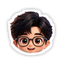
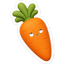
커서 이미지를 납득이 얼굴에서 당근 스티커로 교체

diff --git a/index.html b/index.html
@@ -2,7 +2,7 @@
 <title>사부작 𝕏 LAB · Sabujak 𝕏 Lab</title>
 <meta name="description" content="농산물 사 오다 시작한 사부작의 𝕏 실험실. 그록봇으로 만든 보드·툴킷·템플릿 · Sabujak’s little 𝕏 lab built with Grok Bot">
 <meta property="og:title" content="사부작 𝕏 LAB"><meta property="og:description" content="일상·크립토·그록봇 실험 기록 · 보드 · 템플릿"><meta property="og:image" content="assets/img/hero-bg.webp"><meta name="theme-color" content="#070a1a">
-<link rel="icon" href="assets/img/avatar.webp"><link rel="stylesheet" href="assets/style.css?v=20261102t"></head><body>
+<link rel="icon" href="assets/img/avatar.webp"><link rel="stylesheet" href="assets/style.css?v=20261102u"></head><body>
 <header class="nav"><a class="brand" href="#top"><img src="assets/img/avatar.webp" alt="" width="32" height="32"><span data-l="ko">사부작 𝕏 LAB</span><span data-l="en">Sabujak 𝕏 Lab</span></a>
 <a class="btn sm" href="https://x.com/tei0002" target="_blank" rel="noopener"><span data-l="ko">팔로우</span><span data-l="en">Follow</span></a></header>
 <main id="top">
@@ -20,4 +20,4 @@
 <div class="nums"><div class="num"><span class="k"><span data-l="ko">오늘 방문자 </span><span class="en">Today</span></span><b id="vtoday">–</b></div><div class="num"><span class="k"><span data-l="ko">총 방문자 </span><span class="en">Total</span></span><b id="vtotal">–</b></div></div></div></section>
 </main><footer>© 2026 <span data-l="ko">사부작 𝕏 LAB</span><span data-l="en">Sabujak 𝕏 Lab</span> · Made with Grok Bot · 오늘도 사부작🌱</footer>
 <div id="lb" hidden><img alt=""></div>
-<script src="assets/i18n.js?v=20261102t"></script><script src="assets/app.js?v=20261102t"></script><script src="assets/stats.js?v=20261102t" defer></script><script src="assets/metrics.js?v=20261102t" defer></script><script src="assets/hero.js?v=20261102t" defer></script></body></html>
+<script src="assets/i18n.js?v=20261102u"></script><script src="assets/app.js?v=20261102u"></script><script src="assets/stats.js?v=20261102u" defer></script><script src="assets/metrics.js?v=20261102u" defer></script><script src="assets/hero.js?v=20261102u" defer></script></body></html>

diff --git a/toolkit2/index.html b/toolkit2/index.html
@@ -2,7 +2,7 @@
 <title>사부작 글창고 · 내 𝕏 글 보드 · 사부작 𝕏 LAB</title>
 <meta name="description" content="1년 치 내 𝕏 글을 한 화면에서 검색하고 정렬해, 잘된 글의 패턴을 찾는 보드 (TOOLKIT #2)">
 <meta property="og:title" content="사부작 글창고 · 내 𝕏 글 보드 · 사부작 𝕏 LAB"><meta property="og:image" content="assets/img/t_lib.webp"><meta name="theme-color" content="#070a1a">
-<link rel="icon" href="assets/img/avatar.webp"><link rel="stylesheet" href="assets/style.css?v=20261102t">
+<link rel="icon" href="assets/img/avatar.webp"><link rel="stylesheet" href="assets/style.css?v=20261102u">
 <style>
 .p30{max-width:760px;margin:0 auto;padding:0 16px}.back{display:inline-block;margin:18px 0 6px;opacity:.85}
 .p30 h1{font-size:clamp(26px,7vw,44px);margin:.2em 0;white-space:normal;overflow-wrap:anywhere}.kp{list-style:none;padding:0;display:grid;gap:10px}
@@ -91,7 +91,7 @@
 <p class="lead" style="margin-top:16px"><span data-l="ko">만들어 보시면 인용으로 보여 주세요.<br>여러분 글 중 노출 1위는 어떤 주제였나요?</span><span data-l="en">If you build one, show it in a quote post.<br>Which topic was your #1 post by impressions?</span></p></section>
 <a class="back" href="./">← <span data-l="ko">LAB으로 돌아가기</span><span data-l="en">Back to the LAB</span></a>
 </main><footer>© 2026 <span data-l="ko">사부작 𝕏 LAB</span><span data-l="en">Sabujak 𝕏 Lab</span> · Made with Grok Bot · 오늘도 사부작🌱</footer>
-<script src="assets/i18n.js?v=20261102t"></script>
+<script src="assets/i18n.js?v=20261102u"></script>
 <script>
 const doCopy=async ev=>{const bt=ev.currentTarget,t=document.getElementById('ptxt').textContent,en=document.documentElement.lang==='en';let ok=false;
 try{await navigator.clipboard.writeText(t);ok=true}catch(e){const a=document.createElement('textarea');a.value=t;a.style.position='fixed';a.style.opacity='0';document.body.appendChild(a);a.select();try{ok=document.execCommand('copy')}catch(_){}a.remove()}

diff --git a/toolkit1/index.html b/toolkit1/index.html
@@ -2,7 +2,7 @@
 <title>인팔 300 서클 · 사부작 𝕏 LAB</title>
 <meta name="description" content="맞팔 인증 친구 최대 300명을, 최근에 답글을 못 단 순서로 정렬해 주는 매일 보드 (TOOLKIT #1)">
 <meta property="og:title" content="인팔 300 서클 · 사부작 𝕏 LAB"><meta property="og:image" content="assets/img/t_inpal.webp"><meta name="theme-color" content="#070a1a">
-<link rel="icon" href="assets/img/avatar.webp"><link rel="stylesheet" href="assets/style.css?v=20261102t">
+<link rel="icon" href="assets/img/avatar.webp"><link rel="stylesheet" href="assets/style.css?v=20261102u">
 <style>
 .p30{max-width:760px;margin:0 auto;padding:0 16px}.back{display:inline-block;margin:18px 0 6px;opacity:.85}
 .p30 h1{font-size:clamp(26px,7vw,44px);margin:.2em 0;white-space:normal;overflow-wrap:anywhere}.kp{list-style:none;padding:0;display:grid;gap:10px}
@@ -96,7 +96,7 @@
 <p class="lead" style="margin-top:16px"><span data-l="ko">여러분은 하루에 몇 명의 엑친을 먼저 찾아가세요?</span><span data-l="en">How many 𝕏 friends do you reach out to first each day?</span></p></section>
 <a class="back" href="./">← <span data-l="ko">LAB으로 돌아가기</span><span data-l="en">Back to the LAB</span></a>
 </main><footer>© 2026 <span data-l="ko">사부작 𝕏 LAB</span><span data-l="en">Sabujak 𝕏 Lab</span> · Made with Grok Bot · 오늘도 사부작🌱</footer>
-<script src="assets/i18n.js?v=20261102t"></script>
+<script src="assets/i18n.js?v=20261102u"></script>
 <script>
 const doCopy=async ev=>{const bt=ev.currentTarget,t=document.getElementById('ptxt').textContent,en=document.documentElement.lang==='en';let ok=false;
 try{await navigator.clipboard.writeText(t);ok=true}catch(e){const a=document.createElement('textarea');a.value=t;a.style.position='fixed';a.style.opacity='0';document.body.appendChild(a);a.select();try{ok=document.execCommand('copy')}catch(_){}a.remove()}

diff --git a/plan30/index.html b/plan30/index.html
@@ -2,7 +2,7 @@
 <title>사부작 30일 노트 · 사부작 𝕏 LAB</title>
 <meta name="description" content="사부작 𝕏 30일 실험 노트 · 일상·크립토·그록봇 글 계획">
 <meta property="og:title" content="사부작 30일 노트 · 사부작 𝕏 LAB"><meta property="og:image" content="assets/img/t_decl.webp"><meta name="theme-color" content="#070a1a">
-<link rel="icon" href="assets/img/avatar.webp"><link rel="stylesheet" href="assets/style.css?v=20261102t">
+<link rel="icon" href="assets/img/avatar.webp"><link rel="stylesheet" href="assets/style.css?v=20261102u">
 <style>
 .p30{max-width:760px;margin:0 auto;padding:0 16px}.back{display:inline-block;margin:18px 0 6px;opacity:.85}
 .p30 h1{font-size:clamp(26px,7vw,44px);margin:.2em 0;white-space:normal;overflow-wrap:anywhere}.kp{list-style:none;padding:0;display:grid;gap:10px}
@@ -31,4 +31,4 @@
 <section class="sec"><div class="sh"><h2><span data-l="ko">30일 게시글 리스트</span><span data-l="en">30-day post list</span></h2><span class="n" id="cnt"></span></div><p class="upd" id="upd"></p><div id="list"><p>Loading…</p></div></section>
 <section class="follow"><img src="assets/img/avatar.webp" alt="" width="96" height="96" loading="lazy"><h2><span data-l="ko">어떻게 됐는지는 𝕏에서 사부작 공개</span><span data-l="en">Updates go up on 𝕏</span></h2><a class="btn" href="https://x.com/tei0002" target="_blank" rel="noopener"><span data-l="ko">@tei0002 팔로우하기</span><span data-l="en">Follow @tei0002</span></a></section>
 </main><footer>© 2026 <span data-l="ko">사부작 𝕏 LAB</span><span data-l="en">Sabujak 𝕏 Lab</span> · Made with Grok Bot · 오늘도 사부작🌱</footer>
-<script src="assets/i18n.js?v=20261102t"></script><script src="assets/plan30.js?v=20261102t"></script></body></html>
+<script src="assets/i18n.js?v=20261102u"></script><script src="assets/plan30.js?v=20261102u"></script></body></html>

diff --git a/assets/style.css b/assets/style.css
@@ -59,7 +59,7 @@ h1{word-break:keep-all;overflow-wrap:normal;white-space:nowrap;font-size:clamp(3
 @media(min-width:720px){h1{font-size:clamp(30px,4.6vw,68px)}.hero-txt .lead{font-size:clamp(13px,1.5vw,17px)}.hero-txt{max-width:46%}}
 .lead,.hero-txt{word-break:keep-all}
 .stage{width:100%;contain:paint}.bub{z-index:1}.bub img{display:block}
-/* mascot cursor — fine pointers only */
+/* veggie cursor — fine pointers only */
 @media (pointer:fine){
 html,body{cursor:url(img/cursor-32.png) 7 5,auto;cursor:-webkit-image-set(url(img/cursor-32.png) 1x,url(img/cursor-64.png) 2x) 7 5,auto;cursor:image-set(url(img/cursor-32.png) 1x,url(img/cursor-64.png) 2x) 7 5,auto}
 a,button,.btn,.card[href],.gal button,.bub,[role=button],summary,label[for]{cursor:url(img/cursor-pointer-32.png) 6 6,pointer;cursor:-webkit-image-set(url(img/cursor-pointer-32.png) 1x,url(img/cursor-pointer-64.png) 2x) 6 6,pointer;cursor:image-set(url(img/cursor-pointer-32.png) 1x,url(img/cursor-pointer-64.png) 2x) 6 6,pointer}
